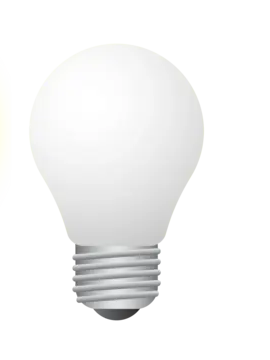
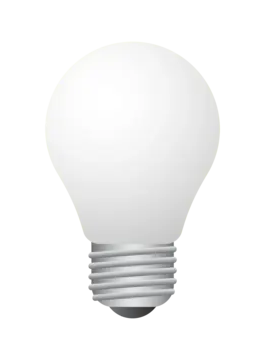
js set

Changed region(s): [[0.1778, 0.1833, 0.8296, 0.9167], [0.6519, 0.1528, 0.6815, 0.1833], [0.1481, 0.4889, 0.1778, 0.5194]]

diff --git a/style.css b/style.css
@@ -4,9 +4,9 @@
     box-sizing: border-box;
 }
 
-.body {
+body {
     font-family: 'Segoe UI', Tahoma, Geneva, Verdana, sans-serif;
-    background-color: #ececec;
+    background-color: #1d1d1d;
 }
 
 .container {
@@ -17,29 +17,33 @@
     align-items: center;
 }
 
-.lamp {
-    min-height: 100vh;
-    margin-left: 70px;
-}
-
 .btn {
     background-color: #f6f6f6;
-    border-color: #f6f6f6;
     color: black;
-    box-shadow: 0px 0px 6px #cacaca;
+    border: solid #f6f6f6;
+    box-shadow: 0px 0px 25px #cacaca;
 
     text-align: center;
 
     width: 7em;
     padding: 0.75em;
     border-radius: 6em;
-    font-size: 2em;
+    font-size: 1em;
 
     cursor: pointer;
     transition-duration: 0.2s;
 }
 
 .btn:hover {
-  background-color: #4CAF50;
-  color: white;
+    background-color: #4CAF50;
+    border: solid #4CAF50;
+    color: #f6f6f6;
+    box-shadow: 0px 0px 25px #4CAF50;
+}
+
+.btn:hover {
+    background-color: #d30000;
+    border: solid #d30000;
+    color: #f6f6f6;
+    box-shadow: 0px 0px 25px #d30000;
 }

diff --git a/script.js b/script.js
@@ -1,6 +1,14 @@
-const button = document.getElementById('button');
-const lamp = document.getElementById('lamp')
+const button = document.querySelector('#button');
+const lamp = document.querySelector('#lamp')
 
 button.addEventListener('click', () => {
-
-});
+    
+    if (button.textContent.includes('Accendi')) {
+        lamp.src="assets/img/yellow_lamp.png";
+        button.textContent = "Spegni";
+        
+    } else {
+         lamp.src="assets/img/white_lamp.png";
+         button.textContent = "Accendi";
+    }
+    });

diff --git a/index.html b/index.html
@@ -10,7 +10,7 @@
 <body>
     <main class="container">
         <img src="assets/img/white_lamp.png" alt="white_lamp" id="lamp">
-        <button id="button" ="btn">Turn on</button>
+        <button id="button" class="btn">Accendi</button>
     </main>
 </body>
 </html>